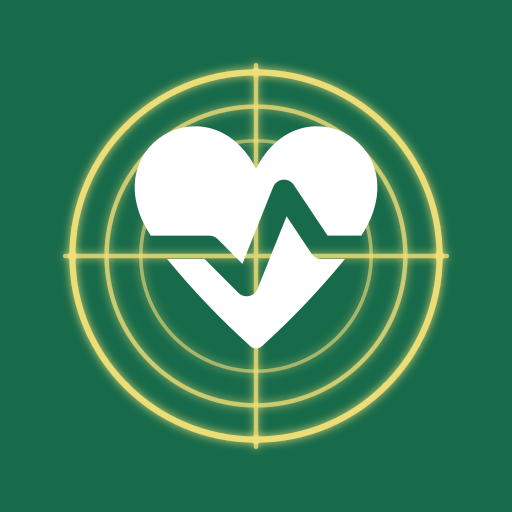
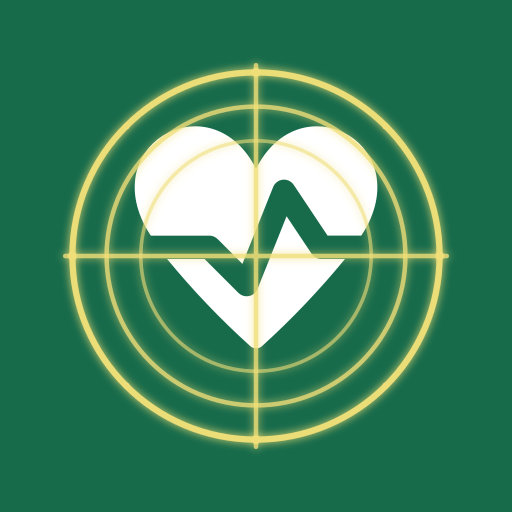
Draw the home-screen reticle over the AED heart

diff --git a/CHANGELOG.md b/CHANGELOG.md
@@ -30,6 +30,7 @@ Alle relevanten Änderungen an AEDjaeger werden hier nachvollziehbar festgehalte
 
 ### Changed
 - Verwendet das grün-gelbe Fadenkreuz mit größerem Maki-Herz ausschließlich als Installationssymbol für den Homescreen (Android und iOS); das Maki-Zeichen in der App und das Browser-Favicon bleiben unverändert.
+- Zeichnet die gelben Achsen des installierten Homescreen-Fadenkreuzes über das weiße Maki-Herz.
 - Hält fest, dass `aedjaeger.de` seit dem 13.11.2026 bei united domains für 12 Monate gesichert ist, und legt den Umzug in `docs/domain.md` fest (Cloudflare-Zone im Free-Tarif, Custom Domain am Worker, OSM-Dev-Redirect-URI, Prüfung, Aufräumen). Reine Dokumentation: Code, Deploy-Ziel und Anmeldung bleiben bis zum Umzug unverändert auf `workers.dev`.
 - Entfernt das Häkchen-Symbol vor dem Namen in der Kopfzeile: Es zeigte dasselbe wie die grüne Lampe. Die Lampe bleibt als einziger Statusanzeiger.
 - Die Lampe ist jetzt eine Schaltfläche mit größerer Tippfläche. Grün: öffnet den Abschnitt mit „Abmelden“ im Info-Dialog (abgemeldet wird erst mit „Abmelden“). Rot: zeigt die Anmeldeseite und setzt den Fokus auf den Anmelde-Knopf; die Lampe meldet nie von selbst an, die Anmeldung braucht immer das ausdrückliche Tippen auf den Knopf. Fehlt dieser (Prüfung läuft, Verbindungsfehler), bekommt der passende andere Knopf oder die Überschrift den Fokus.
